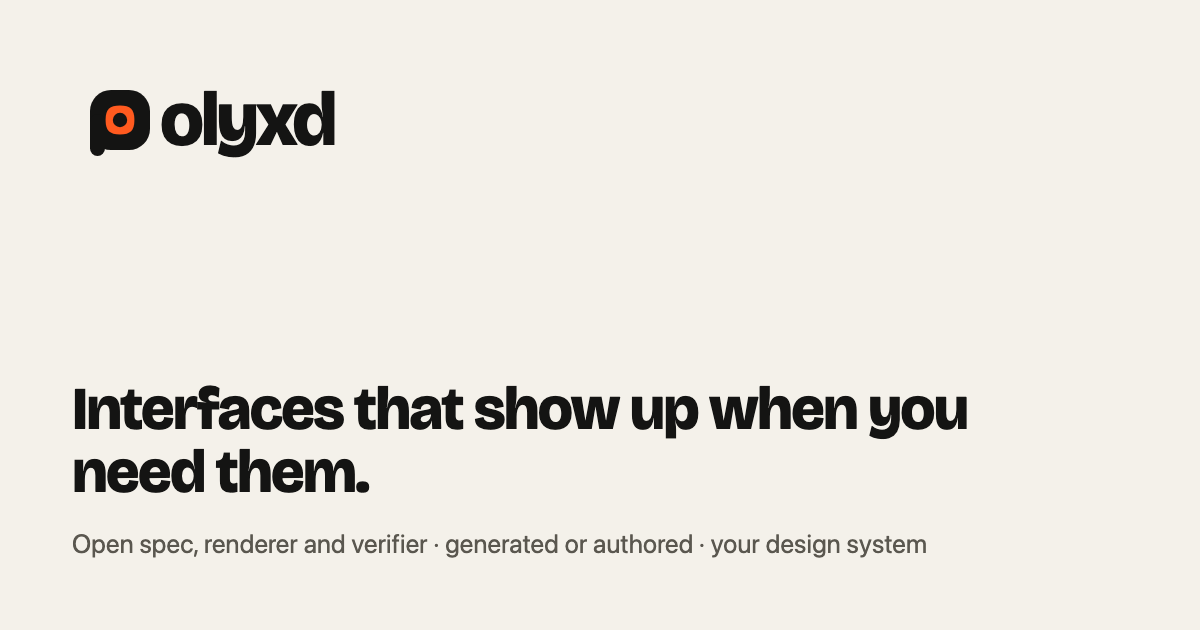
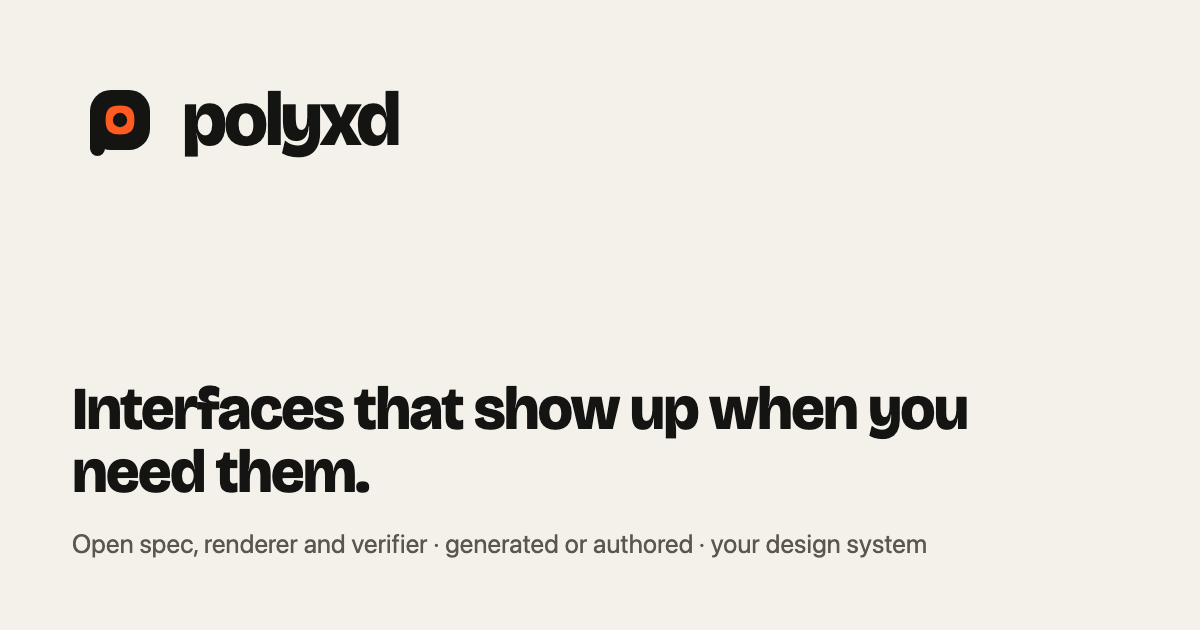
Brand: the full wordmark beside the mark, never the mark as the p

Changed region(s): [[0.1233, 0.1508, 0.3392, 0.2714]]

diff --git a/brand/build.ts b/brand/build.ts
@@ -85,7 +85,7 @@ if (import.meta.url === `file://${process.argv[1]}`) {
     for (const size of [128, 180, 192, 512, 1024]) await shot(tile(INK, mark({ ink: PAPER }), size, size * 0.225), size, size, `icon-${size}.png`);
     await shot(tile(ACCENT, mark({ accent: PAPER }), 1024, 230), 1024, 1024, "icon-accent-1024.png");
     await shot(
-      `<!doctype html><head><link href="https://fonts.googleapis.com/css2?family=Bricolage+Grotesque:opsz,wght@12..96,800&display=swap" rel="stylesheet"></head><body style="margin:0;width:1200px;height:630px;background:${PAPER};font-family:'Bricolage Grotesque',system-ui,sans-serif;color:${INK}"><div style="height:630px;box-sizing:border-box;padding:72px;display:flex;flex-direction:column;justify-content:space-between"><div style="display:flex;align-items:center;gap:0"><svg width="96" height="96" viewBox="0 0 32 32">${mark()}</svg><span style="font-size:76px;font-weight:800;letter-spacing:-0.04em;margin-left:-8px">olyxd</span></div><div><div style="font-size:60px;font-weight:800;line-height:1.05;letter-spacing:-0.03em;max-width:980px">Interfaces that show up when you need them.</div><div style="margin-top:24px;font-size:26px;font-family:system-ui,sans-serif;color:#5a574f">Open spec, renderer and verifier · generated or authored · your design system</div></div></div></body>`,
+      `<!doctype html><head><link href="https://fonts.googleapis.com/css2?family=Bricolage+Grotesque:opsz,wght@12..96,800&display=swap" rel="stylesheet"></head><body style="margin:0;width:1200px;height:630px;background:${PAPER};font-family:'Bricolage Grotesque',system-ui,sans-serif;color:${INK}"><div style="height:630px;box-sizing:border-box;padding:72px;display:flex;flex-direction:column;justify-content:space-between"><div style="display:flex;align-items:center;gap:14px"><svg width="96" height="96" viewBox="0 0 32 32">${mark()}</svg><span style="font-size:76px;font-weight:800;letter-spacing:-0.04em">polyxd</span></div><div><div style="font-size:60px;font-weight:800;line-height:1.05;letter-spacing:-0.03em;max-width:980px">Interfaces that show up when you need them.</div><div style="margin-top:24px;font-size:26px;font-family:system-ui,sans-serif;color:#5a574f">Open spec, renderer and verifier · generated or authored · your design system</div></div></div></body>`,
       1200,
       630,
       "og.png",

diff --git a/apps/site/scripts/build.ts b/apps/site/scripts/build.ts
@@ -46,7 +46,7 @@ const href = (slug: string) => (slug ? `/docs/${slug}/` : "/docs/");
 // ---------- Shared chrome ----------
 
 import { mark, svg as markSvg } from "../../../brand/build.ts";
-/** The mark as the p of the wordmark: three shapes, drawn once in brand/build.ts. */
+/** The mark beside the wordmark: three shapes, drawn once in brand/build.ts. */
 const LOGO = `<svg width="30" height="30" viewBox="0 0 32 32" aria-hidden="true">${mark()}</svg>`;
 
 function head({ title, description, path, css = [] }: { title: string; description: string; path: string; css?: string[] }) {
@@ -71,7 +71,7 @@ ${css.map((c) => `<link rel="stylesheet" href="${c}">`).join("\n")}`;
 function header(current: "home" | "docs") {
   const cur = (k: string) => (k === current ? ' aria-current="page"' : "");
   return `<header class="site-header"><div class="wrap">
-<a class="brand" href="/" aria-label="Polyxd home">${LOGO}<span class="brand-word">olyxd</span></a>
+<a class="brand" href="/" aria-label="Polyxd home">${LOGO}<span class="brand-word">polyxd</span></a>
 <nav class="site-nav" aria-label="Main">
 <a class="nav-optional" href="/#how">How it works</a>
 <a class="nav-optional" href="/docs/designers/">For design teams</a>
@@ -83,7 +83,7 @@ function header(current: "home" | "docs") {
 }
 
 const footer = `<footer class="site-footer"><div class="wrap">
-<a class="brand" href="/" aria-label="Polyxd home">${LOGO}<span class="brand-word">olyxd</span></a>
+<a class="brand" href="/" aria-label="Polyxd home">${LOGO}<span class="brand-word">polyxd</span></a>
 <nav aria-label="Footer"><a href="/docs/">Docs</a><a href="/demos/">Demos</a><a href="/docs/reference/coverage/">All components</a><a href="/docs/verifier/">Verifier</a><a href="/gallery/">Gallery</a><a href="/#access">Early access</a></nav>
 <span>© 2026 Polyxd · Apache-2.0 code, CC-BY-4.0 spec</span>
 </div></footer>`;

diff --git a/apps/demos/index.html b/apps/demos/index.html
@@ -71,7 +71,7 @@
   <body>
     <header class="site-header">
       <div class="wrap">
-        <a class="brand" href="/" aria-label="Polyxd home"><img src="/favicon.svg" alt="" width="30" height="30"><span class="brand-word">olyxd</span></a>
+        <a class="brand" href="/" aria-label="Polyxd home"><img src="/favicon.svg" alt="" width="30" height="30"><span class="brand-word">polyxd</span></a>
         <nav class="site-nav" aria-label="Main"><a href="/gallery/">Gallery</a><a href="/docs/">Docs</a></nav>
       </div>
     </header>

diff --git a/apps/site/src/assets/site.css b/apps/site/src/assets/site.css
@@ -162,9 +162,6 @@ a {
   gap: 10px;
   text-decoration: none;
 }
-.brand svg + .brand-word {
-  margin-left: -6px;
-}
 .brand-word {
   font-family: var(--display);
   font-weight: 800;
